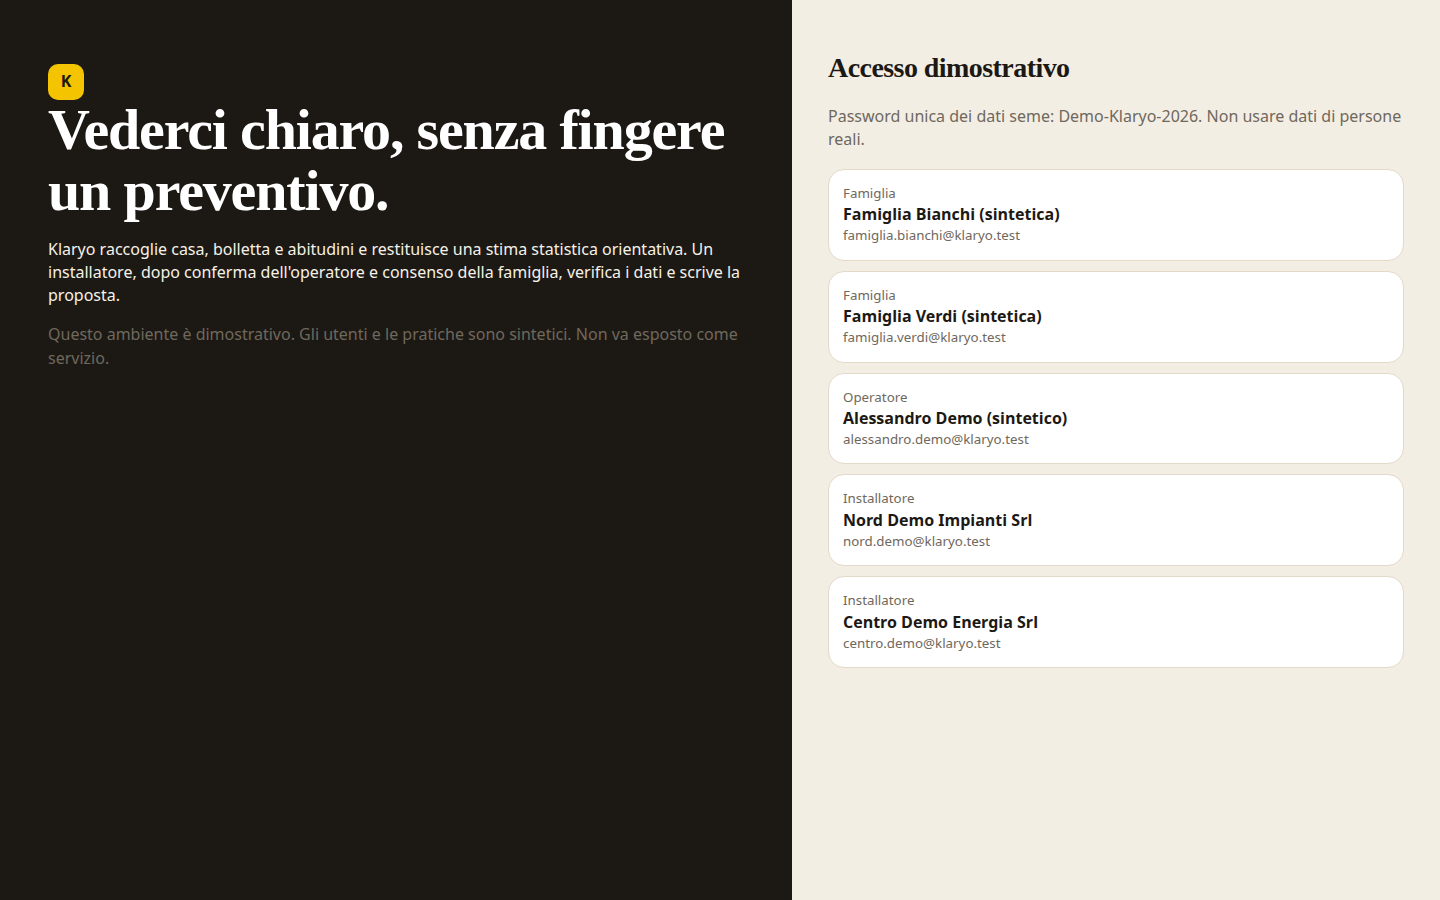
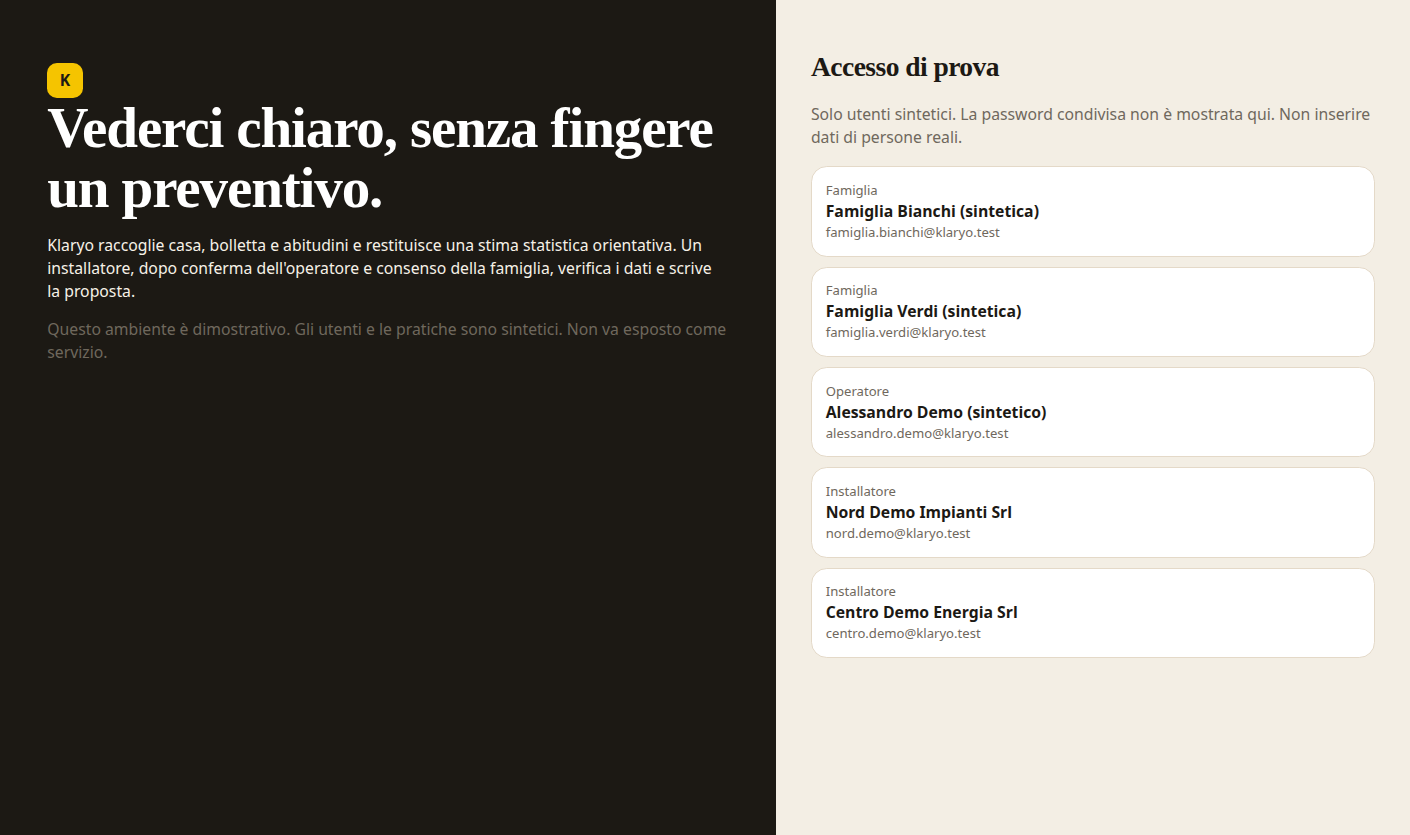
Rende provabile il flusso sintetico senza pubblicare la password.
La scelta del ruolo resta spenta fuori dall'avvio di prova e NODE_ENV=production continua a rifiutare l'avvio.

Changed region(s): [[0.5617, 0.1246, 0.9986, 0.8096], [0.0312, 0.0623, 0.5305, 0.4359], [0.5617, 0.0623, 0.7489, 0.0934]]

diff --git a/klaryo-app/src/pages/LoginPage.tsx b/klaryo-app/src/pages/LoginPage.tsx
@@ -1,4 +1,4 @@
-import { useState } from 'react';
+import { useEffect, useState, type FormEvent } from 'react';
 import { Navigate, useNavigate } from 'react-router-dom';
 import { api, ApiError } from '../api';
 import { useAuth } from '../auth';
@@ -17,16 +17,43 @@ export function LoginPage() {
   const navigate = useNavigate();
   const [error, setError] = useState<string | null>(null);
   const [pending, setPending] = useState(false);
+  const [demoPick, setDemoPick] = useState(false);
+  const [email, setEmail] = useState('');
+  const [password, setPassword] = useState('');
+
+  useEffect(() => {
+    api<{ demoPick?: boolean }>('/api/health')
+      .then((health) => setDemoPick(health.demoPick === true))
+      .catch(() => setDemoPick(false));
+  }, []);
 
   if (user) return <Navigate to="/" replace />;
 
-  async function enter(email: string) {
+  async function enter(accountEmail: string) {
+    setPending(true);
+    setError(null);
+    try {
+      const result = await api<{ user: SessionUser }>('/api/demo-session', {
+        method: 'POST',
+        body: JSON.stringify({ email: accountEmail }),
+      });
+      setUser(result.user);
+      navigate('/');
+    } catch (cause) {
+      setError(cause instanceof ApiError ? cause.message : 'Accesso non riuscito.');
+    } finally {
+      setPending(false);
+    }
+  }
+
+  async function loginWithPassword(event: FormEvent) {
+    event.preventDefault();
     setPending(true);
     setError(null);
     try {
       const result = await api<{ user: SessionUser }>('/api/login', {
         method: 'POST',
-        body: JSON.stringify({ email, password: 'Demo-Klaryo-2026' }),
+        body: JSON.stringify({ email, password }),
       });
       setUser(result.user);
       navigate('/');
@@ -49,25 +76,40 @@ export function LoginPage() {
         <p className="muted">Questo ambiente è dimostrativo. Gli utenti e le pratiche sono sintetici. Non va esposto come servizio.</p>
       </section>
       <section className="login-panel">
-        <h2>Accesso dimostrativo</h2>
-        <p className="muted">Password unica dei dati seme: Demo-Klaryo-2026. Non usare dati di persone reali.</p>
+        <h2>Accesso di prova</h2>
+        <p className="muted">Solo utenti sintetici. La password condivisa non è mostrata qui. Non inserire dati di persone reali.</p>
         {error && <p className="error">{error}</p>}
-        <div className="accounts">
-          {ACCOUNTS.map((account) => (
-            <button
-              key={account.email}
-              className="account"
-              type="button"
-              disabled={pending}
-              data-testid={`login-${account.email}`}
-              onClick={() => enter(account.email)}
-            >
-              <small>{account.role}</small>
-              <strong>{account.name}</strong>
-              <small>{account.email}</small>
-            </button>
-          ))}
-        </div>
+        {demoPick ? (
+          <div className="accounts">
+            {ACCOUNTS.map((account) => (
+              <button
+                key={account.email}
+                className="account"
+                type="button"
+                disabled={pending}
+                data-testid={`login-${account.email}`}
+                onClick={() => enter(account.email)}
+              >
+                <small>{account.role}</small>
+                <strong>{account.name}</strong>
+                <small>{account.email}</small>
+              </button>
+            ))}
+          </div>
+        ) : (
+          <form onSubmit={loginWithPassword}>
+            <label>
+              Email sintetica
+              <input value={email} onChange={(event) => setEmail(event.target.value)} autoComplete="username" />
+            </label>
+            <label>
+              Password
+              <input type="password" value={password} onChange={(event) => setPassword(event.target.value)} autoComplete="current-password" />
+            </label>
+            <button className="btn" type="submit" disabled={pending}>Entra</button>
+            <p className="note">I pulsanti dei ruoli compaiono solo con l'avvio di prova isolato. Questo avvio non li offre.</p>
+          </form>
+        )}
       </section>
     </div>
   );

diff --git a/klaryo-app/tests/demo-pick.test.ts b/klaryo-app/tests/demo-pick.test.ts
@@ -1,0 +1,55 @@
+import type { AddressInfo } from 'node:net';
+import type { Server } from 'node:http';
+import { afterAll, beforeAll, describe, expect, it } from 'vitest';
+import { DEMO, openDatabase } from '../server/db';
+import { createReadyApp } from '../server/http';
+
+describe('scelta ruolo solo nell’avvio di prova', () => {
+  let server: Server;
+  let base: string;
+
+  beforeAll(async () => {
+    const db = openDatabase(':memory:');
+    const app = createReadyApp(db, { aiEnv: { apiKey: '', baseUrl: '' }, allowDemoPick: true });
+    server = app.listen(0, '127.0.0.1');
+    await new Promise<void>((resolve) => server.once('listening', () => resolve()));
+    base = `http://127.0.0.1:${(server.address() as AddressInfo).port}`;
+  });
+
+  afterAll(async () => {
+    await new Promise<void>((resolve, reject) => server.close((error) => (error ? reject(error) : resolve())));
+  });
+
+  it('fa entrare un ruolo sintetico e tiene chiusa la pratica altrui', async () => {
+    const health = await fetch(base + '/api/health');
+    const healthBody = await health.json();
+    expect(healthBody.demoPick).toBe(true);
+    expect(healthBody.productionReady).toBe(false);
+
+    const denied = await fetch(base + '/api/demo-session', {
+      method: 'POST',
+      headers: { 'content-type': 'application/json' },
+      body: JSON.stringify({ email: 'persona.reale@example.com' }),
+    });
+    expect(denied.status).toBe(403);
+
+    const session = await fetch(base + '/api/demo-session', {
+      method: 'POST',
+      headers: { 'content-type': 'application/json' },
+      body: JSON.stringify({ email: DEMO.bianchiEmail }),
+    });
+    expect(session.status).toBe(200);
+    const cookie = session.headers.getSetCookie().map((item) => item.split(';')[0]).join('; ');
+    const own = await fetch(base + `/api/leads/${DEMO.bianchiLeadId}/dossier`, { headers: { cookie } });
+    const other = await fetch(base + `/api/leads/${DEMO.verdiLeadId}/dossier`, { headers: { cookie } });
+    expect(own.status).toBe(200);
+    expect(other.status).toBe(403);
+
+    const assign = await fetch(base + `/api/leads/${DEMO.bianchiLeadId}/assignments`, {
+      method: 'POST',
+      headers: { cookie, 'content-type': 'application/json' },
+      body: JSON.stringify({ matchId: 'match_inesistente' }),
+    });
+    expect(assign.status).toBe(403);
+  });
+});

diff --git a/klaryo-app/server/http.ts b/klaryo-app/server/http.ts
@@ -19,6 +19,7 @@ import {
   createAssignment,
   createSession,
   deleteSession,
+  DEMO,
   findUserByEmail,
   firstAdminId,
   getAssignment,
@@ -144,9 +145,18 @@ function requireRole(user: UserRecord, roles: Array<UserRecord['role']>): void {
   if (!roles.includes(user.role)) throw new HttpError(403, 'Non autorizzato per questo ruolo.', 'forbidden_role');
 }
 
-export function createReadyApp(db: DB, options?: { distDir?: string; aiEnv?: AiEnv }) {
+const DEMO_PICK_EMAILS = new Set<string>([
+  DEMO.adminEmail,
+  DEMO.bianchiEmail,
+  DEMO.verdiEmail,
+  DEMO.nordEmail,
+  DEMO.centroEmail,
+]);
+
+export function createReadyApp(db: DB, options?: { distDir?: string; aiEnv?: AiEnv; allowDemoPick?: boolean }) {
   migrate(db);
   seed(db);
+  const allowDemoPick = options?.allowDemoPick === true;
   const aiEnv: AiEnv = options?.aiEnv ?? {
     apiKey: process.env.KLARYO_AI_API_KEY,
     baseUrl: process.env.KLARYO_AI_BASE_URL,
@@ -187,9 +197,32 @@ export function createReadyApp(db: DB, options?: { distDir?: string; aiEnv?: AiE
       ok: true,
       demo: true,
       productionReady: false,
+      demoPick: allowDemoPick,
       ai: Boolean(aiEnv.apiKey && aiEnv.baseUrl) ? 'configured' : 'not_configured',
     });
   });
+
+  router.post(
+    '/demo-session',
+    wrap((req, res) => {
+      if (!allowDemoPick || process.env.NODE_ENV === 'production') {
+        throw new HttpError(403, 'Scelta del ruolo disattivata su questo avvio.', 'demo_pick_disabled');
+      }
+      const body = z.object({ email: z.string().trim().email().max(200) }).parse(req.body);
+      const email = body.email.toLowerCase();
+      if (!DEMO_PICK_EMAILS.has(email)) {
+        throw new HttpError(403, 'Questo indirizzo non è un utente sintetico di prova.', 'demo_pick_denied');
+      }
+      const user = findUserByEmail(db, email);
+      if (!user) throw new HttpError(403, 'Utente sintetico non trovato.', 'demo_pick_denied');
+      const sessionId = createSession(db, user.id);
+      res.setHeader(
+        'Set-Cookie',
+        `klaryo_session=${encodeURIComponent(sessionId)}; HttpOnly; SameSite=Lax; Path=/; Max-Age=43200`,
+      );
+      res.json({ user: publicUser(user), demo: true, productionReady: false });
+    }),
+  );
 
   router.post(
     '/login',

diff --git a/klaryo-app/server/index.ts b/klaryo-app/server/index.ts
@@ -10,9 +10,10 @@ const root = path.resolve(path.dirname(fileURLToPath(import.meta.url)), '..');
 const dbPath = process.env.KLARYO_DB ?? path.join(root, 'data', 'klaryo.sqlite');
 const port = Number(process.env.KLARYO_PORT ?? 8787);
 const db = openDatabase(dbPath);
-const app = createReadyApp(db, { distDir: path.join(root, 'dist') });
+const allowDemoPick = process.env.KLARYO_ALLOW_DEMO_PICK === '1';
+const app = createReadyApp(db, { distDir: path.join(root, 'dist'), allowDemoPick });
 
 app.listen(port, '127.0.0.1', () => {
-  console.log(`Klaryo demo su http://127.0.0.1:${port}`);
-  console.log('Accesso dimostrativo. Non è un servizio di produzione.');
+  console.log(`Klaryo prova isolata, porta ${port}, solo questa macchina. productionReady=false. demoPick=${allowDemoPick}.`);
+  console.log('NODE_ENV=production è rifiutato. Non è un indirizzo pubblico.');
 });

diff --git a/klaryo-app/tests/access.test.ts b/klaryo-app/tests/access.test.ts
@@ -26,7 +26,11 @@ describe('confini di accesso e pratica', () => {
     const health = await call('/api/health');
     expect(health.status).toBe(200);
     expect(health.body.productionReady).toBe(false);
+    expect(health.body.demoPick).toBe(false);
     expect(health.body.ai).toBe('not_configured');
+    const pick = await call('/api/demo-session', { method: 'POST', body: { email: DEMO.bianchiEmail } });
+    expect(pick.status).toBe(403);
+    expect(pick.body.code).toBe('demo_pick_disabled');
 
     const home = await fetch(base + '/');
     const html = await home.text();

diff --git a/klaryo-app/tests/matching.test.ts b/klaryo-app/tests/matching.test.ts
@@ -61,6 +61,7 @@ describe('stati e produzione', () => {
 
   it('rifiuta l\'avvio production', () => {
     expect(() => assertDemoRuntime({ NODE_ENV: 'production' })).toThrow(/production rifiutato/i);
+    expect(() => assertDemoRuntime({ NODE_ENV: 'production', KLARYO_ALLOW_DEMO_PICK: '1' })).toThrow(/production rifiutato/i);
     expect(() => assertDemoRuntime({ NODE_ENV: 'development' })).not.toThrow();
   });
 });

diff --git a/klaryo-app/README.md b/klaryo-app/README.md
@@ -79,19 +79,11 @@ Servono Node.js 22.5 o successivo e npm. Dalla cartella `klaryo-app`:
 npm install
 npm test
 npm run typecheck
-npm run dev
-```
-
-Poi aprire `http://127.0.0.1:5173`.
-
-In un altro modo, dopo la build, l'API serve anche l'interfaccia:
-
-```bash
 npm run build
-npm start
+npm run test:preview
 ```
 
-Poi aprire `http://127.0.0.1:8787`.
+`npm run test:preview` accende la scelta del ruolo sintetico e rifiuta comunque `NODE_ENV=production`. Il processo ascolta solo sull'interfaccia locale della macchina dove lo avvii. Non è un indirizzo pubblico. Il comando stampa la porta. `npm start` senza quella variabile non mostra i pulsanti dei ruoli.
 
 `npm start` senza build risponde solo con l'API e una pagina che indica di usare Vite oppure di compilare. Non serve alcuna chiave API.
 
@@ -108,11 +100,12 @@ Variabili facoltative:
 | `KLARYO_PORT` | Porta API, default 8787 |
 | `KLARYO_DB` | Percorso del file SQLite |
 | `KLARYO_AI_BASE_URL`, `KLARYO_AI_API_KEY`, `KLARYO_AI_MODEL` | Adattatore di spiegazione, non obbligatorio |
+| `KLARYO_ALLOW_DEMO_PICK=1` | Abilita i pulsanti dei ruoli sintetici. `npm run test:preview` la imposta. Non scavalca il rifiuto di production. |
 | `NODE_ENV=production` | L'avvio viene rifiutato |
 
 ## Accessi dimostrativi
 
-Password unica: `Demo-Klaryo-2026`.
+Con `npm run test:preview` la schermata elenca i ruoli sintetici e non mostra una password. Senza quella modalità l'ingresso resta email e password, e la password non è scritta in questa pagina.
 
 | Ruolo | Email |
 | --- | --- |
@@ -134,6 +127,10 @@ Bianchi non è assegnata all'avvio: conferma, consenso e assegnazione si fanno n
 - `tests/access.test.ts`: ruoli, consenso, assegnazione, proposta che non riscrive l'analisi, segnalazione non visibile alla famiglia, ipotesi versionate.
 
 `npm run typecheck` è `tsc --noEmit`.
+
+## Anteprima nell'agente Cursor
+
+Non esiste un URL pubblico dell'app. L'anteprima supportata è il desktop remoto di questo cloud agent, visibile al proprietario dell'agente. Il processo di prova non va messo su un dominio, su Vercel o su un tunnel.
 
 ## Schermate
 
